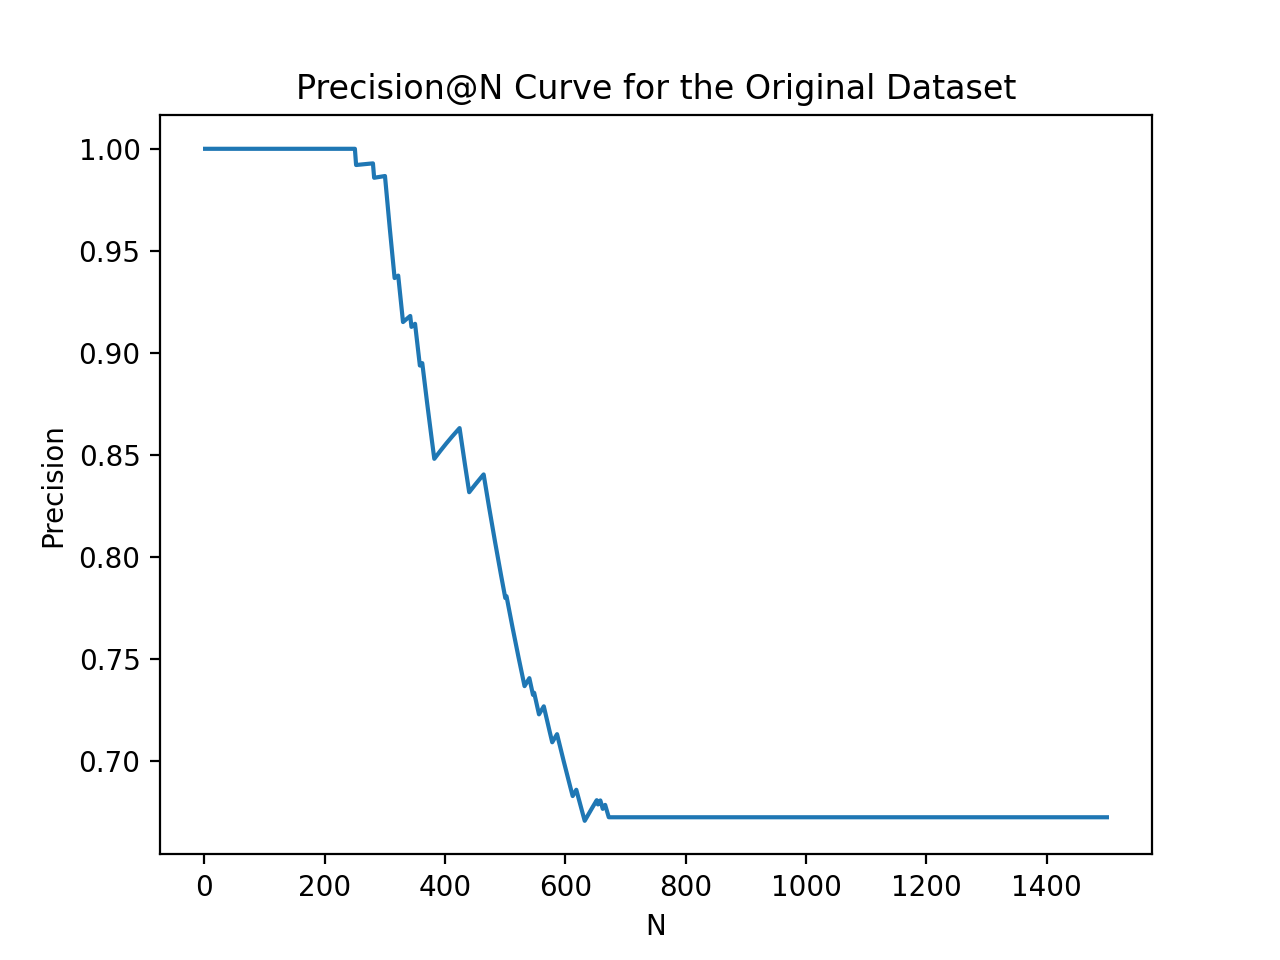
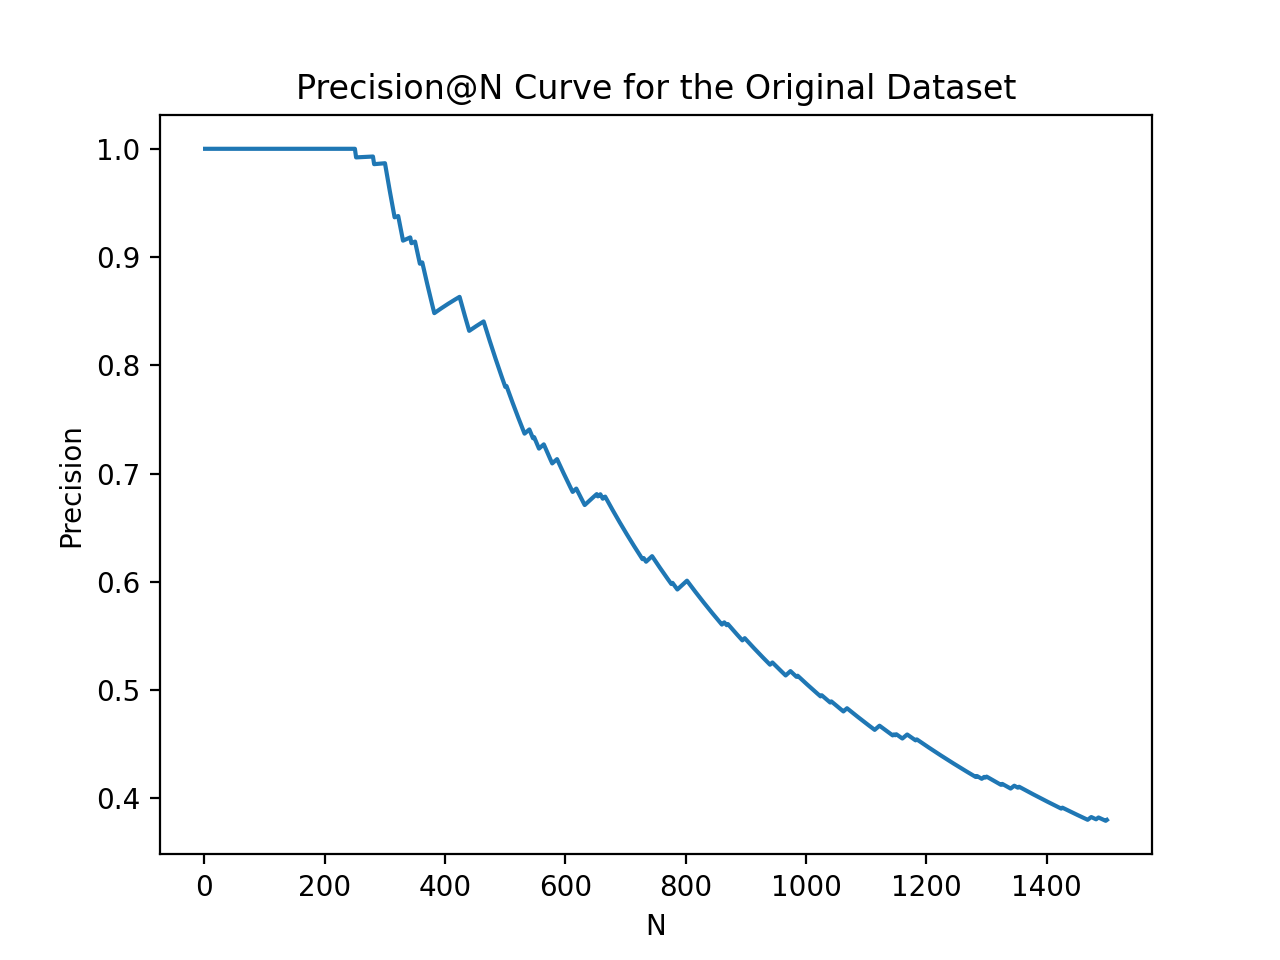
Precision@N Update

diff --git a/code_embeddings.py b/code_embeddings.py
@@ -154,6 +154,7 @@ def threshold_grid_search(embeddings):
     auc = np.trapz(y_arr, x = x_arr)
     print("AUC: ", auc) # Fix by sorting x (and correspondindly Y)
 
+    '''
     # Plot F1 Curve
     horzional_line_x = []
     horzional_line_y = []
@@ -167,7 +168,6 @@ def threshold_grid_search(embeddings):
     plt.plot(thresholds, f1_scores)
     plt.text(max_threshold, max_F1 / 8, str(max_threshold), color = "r", horizontalalignment = "center", size = "smaller", bbox=dict(facecolor='white', edgecolor="white"))
     plt.text(max_threshold, max_F1 + 0.005, str(max_F1), color = "r", horizontalalignment = "center", size = "smaller")
-    # plt.axvline(x = max_threshold / 100, ymax = max_F1, linestyle = "dashed", color = "r")
     plt.xlabel("Threshold Value")
     plt.ylabel("F1 Score")
     plt.title("Code Similarity Performance for Various Threshold Values")
@@ -179,6 +179,7 @@ def threshold_grid_search(embeddings):
     plt.ylabel("True Positive Rate")
     plt.title("Receiver Operating Characterisitc (ROC) Curve")
     plt.show()
+    '''
 
     return (f1_scores.index(max(f1_scores)) + 1) / 100, thresholds, f1_scores # Return the threshold value with the max observed F1 score
 
@@ -260,7 +261,7 @@ def F1_plots(threshold_1, f1_1, threshold_2, f1_2, threshold_3, f1_3):
 #	Purpose:	Creates a plot of the precision@n for the given code embeddings using the same method described in the 
 #               Similarity Analyzers paper
 #--------------------------------------------------------------------------------------------------------------------------------
-def precision_at_n(embeddings, threshold):
+def precision_at_n(embeddings):
     # TP = 1
     # TN = 2
     # FP = 3
@@ -270,16 +271,10 @@ def precision_at_n(embeddings, threshold):
     for k1 in list(embeddings.keys()):
         for k2 in list(embeddings.keys()):
             val = cosine_similarity(embeddings[k1][0], embeddings[k2][0])
-            if val >= threshold:
-                if embeddings[k1][1] == embeddings[k2][1]:
-                    results.append((val, 1))
-                else:
-                    results.append((val, 3))
+            if embeddings[k1][1] == embeddings[k2][1]:
+                results.append((val, 1))
             else:
-                if embeddings[k1][1] == embeddings[k2][1]:
-                    results.append((val, 4))
-                else:
-                    results.append((val, 2))
+                results.append((val, 3))
     
     results.sort(key = lambda x: x[0])
     results.reverse()
@@ -299,6 +294,9 @@ def precision_at_n(embeddings, threshold):
             elif results[i][1] == 3:
                 false_positive_count += 1
         
+        if n == 1000:
+            print("Precision@N: " + str(true_positive_count / (true_positive_count + false_positive_count)))
+
         y.append(true_positive_count / (true_positive_count + false_positive_count))
 
     plt.plot(x, y)
@@ -313,10 +311,11 @@ def precision_at_n(embeddings, threshold):
 if __name__ == "__main__":
     # Dataset A - Embeddings Created Using Java-14 Model
     # EMBEDDINGS A1 - Original
+    '''
     embeddings_A1 = read_code_embeddings("Code Embeddings/code_embeddings_A1.txt")
     A1_threshold, A1_thresholds, A1_F1s = threshold_grid_search(embeddings_A1) # A1 Threshold is 0.66 (threshold with max F1 value)
     A1_F1 = code_similarity_analysis(embeddings_A1, "A1", A1_threshold) # 0.5406698564593302
-    precision_at_n(embeddings_A1, A1_threshold)
+    precision_at_n(embeddings_A1)
 
     # EMBEDDINGS A2 - Krakatau 
     embeddings_A2 = read_code_embeddings("Code Embeddings/code_embeddings_A2.txt")
@@ -329,14 +328,16 @@ if __name__ == "__main__":
     A3_F1 = code_similarity_analysis(embeddings_A3, "A3", A3_threshold) # 0.8331441543700342
 
     F1_plots(A1_thresholds, A1_F1s, A2_thresholds, A2_F1s, A3_thresholds, A3_F1s)
+    '''
     
     # Dataset B - Embeddings Created Using Java-Large Model
     # EMBEDDINGS B1 - Original
     embeddings_B1 = read_code_embeddings("Code Embeddings/code_embeddings_B1.txt")
     B1_threshold, B1_thresholds, B1_F1s = threshold_grid_search(embeddings_B1) 
     B1_F1 = code_similarity_analysis(embeddings_B1, "B1", B1_threshold)
-    precision_at_n(embeddings_B1, B1_threshold)
+    precision_at_n(embeddings_B1)
 
+    '''
     # EMBEDDINGS B2 - Krakatau 
     embeddings_B2 = read_code_embeddings("Code Embeddings/code_embeddings_B2.txt")
     B2_threshold, B2_thresholds, B2_F1s = threshold_grid_search(embeddings_B2) 
@@ -348,3 +349,4 @@ if __name__ == "__main__":
     B3_F1 = code_similarity_analysis(embeddings_B3, "B3", B3_threshold) 
 
     F1_plots(B1_thresholds, B1_F1s, B2_thresholds, B2_F1s, B3_thresholds, B3_F1s)
+    '''
